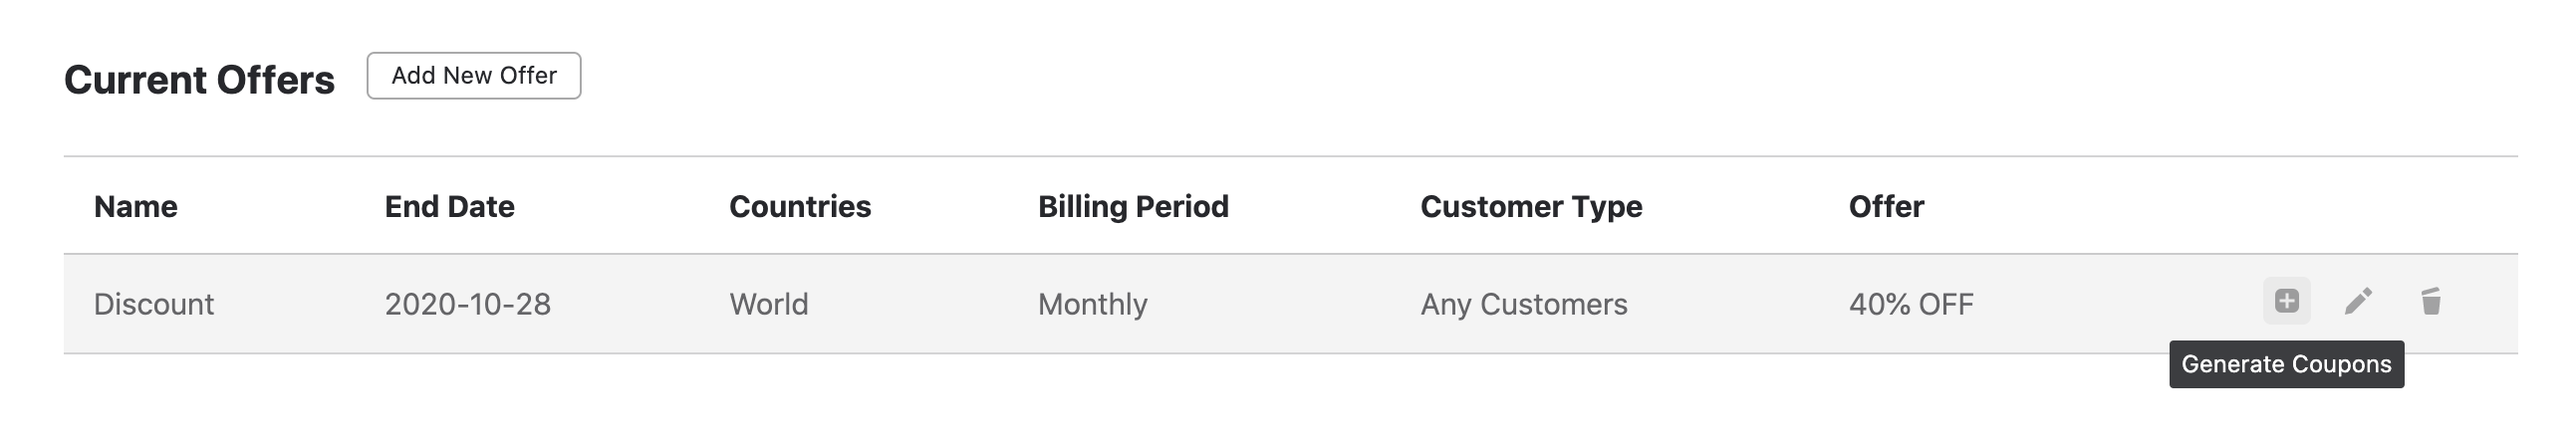
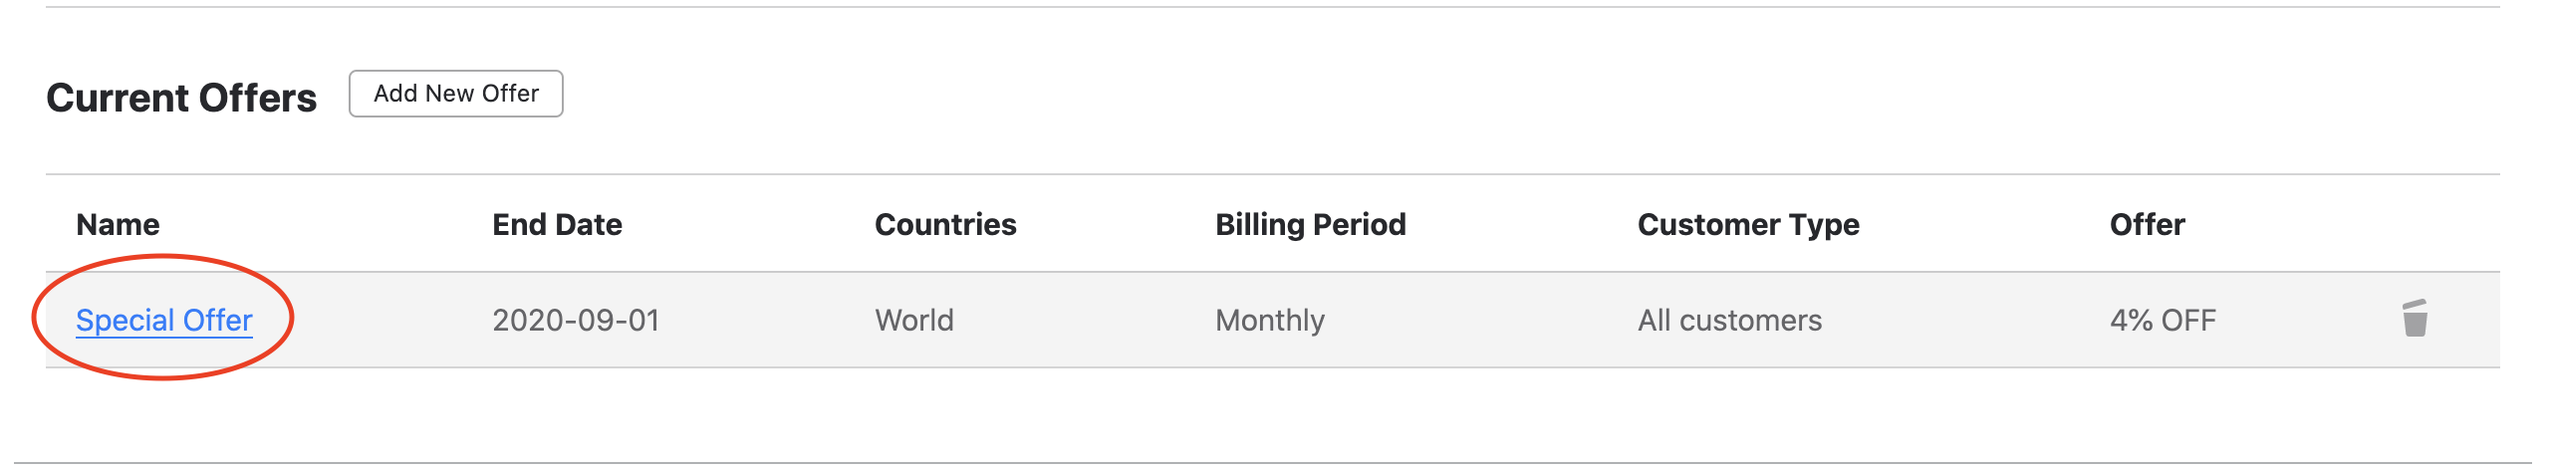
Change the screenshots for offers

diff --git a/topics/paid-plugins-general-info/coupon-offers.md b/topics/paid-plugins-general-info/coupon-offers.md
@@ -16,7 +16,7 @@ You can specify an *End date* after which the coupons generated for this offer w
 After submitting this form, your new offer will appear in the **Current Offers** section of the sales info page where you can edit your offers, remove them, and generate coupons. Please note that if you remove an offer, all coupons associated with it will be invalidated.
 
 ## Generate coupons
-To generate coupons for your customers, click the plus sign in the offer section on the sales info page.
+To generate coupons for your customers, click the offer name in the offer section on the sales info page.
 ![Generate Coupons](generate_coupons.png)
 
 Enter the number of new coupons you want to create and click Generate New Coupons.
